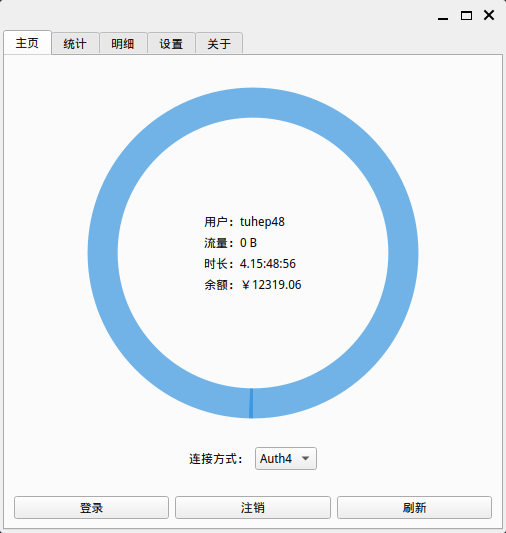
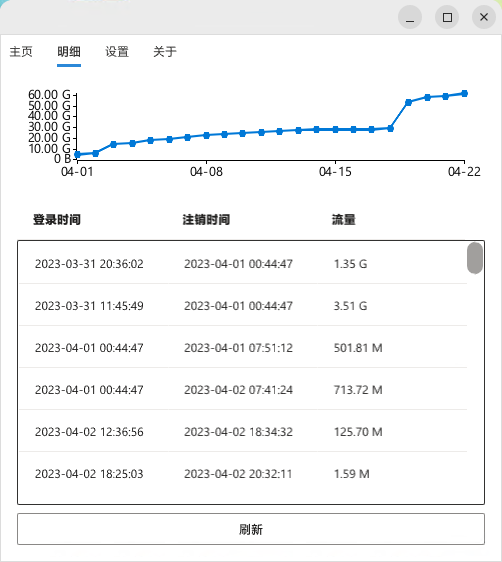
Update README.

diff --git a/README.md b/README.md
@@ -4,13 +4,13 @@
 [![Azure DevOps builds](https://strawberry-vs.visualstudio.com/tunet-rust/_apis/build/status/Berrysoft.tunet-rust?branch=master)](https://strawberry-vs.visualstudio.com/tunet-rust/_build)
 
 ## GUI
-支持 Qt5/6，以及 Qt 支持的桌面平台。前端使用 C++ 编写。
+基于 [Slint](https://slint-ui.com/) 开发。
 
-| Windows                        | Windows（暗*）                             | Linux                      | MacOS                          | MacOS（暗）                   |
-| ------------------------------ | ------------------------------------------ | -------------------------- | ------------------------------ | ----------------------------- |
-| ![Windows](assets/windows.png) | ![Windows](assets/windows.fusion.dark.png) | ![Linux](assets/linux.png) | ![macos](assets/mac.light.png) | ![macos](assets/mac.dark.png) |
-
-\* 需要使用 fusion 主题，可在命令行指定 `-style fusion`。
+| 平台    | 亮                             | 暗                                  |
+| ------- | ------------------------------ | ----------------------------------- |
+| Windows | ![Windows](assets/windows.png) | ![Windows](assets/windows.dark.png) |
+| Linux   | ![Linux](assets/linux.png)     | （暂无图片）                        |
+| macOS   | ![macOS](assets/mac.light.png) | ![macOS](assets/mac.dark.png)       |
 
 ## CUI（命令行图形界面）
 使用如下命令启动：
@@ -117,46 +117,9 @@ $ ./tunet deletecred
 | Linux   | [Netlink](https://wiki.linuxfoundation.org/networking/generic_netlink_howto) |
 | macOS   | System Configuration 与 Core WLAN                                            |
 
-## 平台支持
-至少支持如下目标编译命令行程序：
-
-* i686-unknown-linux-gnu
-* x86_64-unknown-linux-gnu
-* arm-unknown-linux-gnueabihf
-* aarch64-unknown-linux-gnu
-* riscv64gc-unknown-linux-gnu
-* mips-unknown-linux-gnu
-* mipsel-unknown-linux-gnu
-* mips64-unknown-linux-gnuabi64
-* mips64el-unknown-linux-gnuabi64
-* powerpc-unknown-linux-gnu
-* powerpc64le-unknown-linux-gnu
-* s390x-unknown-linux-gnu
-* x86_64-apple-darwin
-* aarch64-apple-darwin
-* i686-pc-windows-msvc
-* x86_64-pc-windows-msvc
-* aarch64-pc-windows-msvc
-
-但是大部分目标并不提供预编译程序，如有需要请自行编译。
-
 ## 编译说明
-如果只需要命令行程序，使用 `cargo` 直接编译：
+使用 `cargo` 直接编译：
 ``` bash
 $ cargo build --release
 ```
 即可在 `target/release` 下找到编译好的程序。
-
-如果需要图形界面程序，应首先安装 Qt5/6 与 cmake，之后运行：
-``` bash
-$ mkdir build
-$ cd build
-# Qt6
-$ cmake ..
-# Qt5 需要额外参数
-$ cmake .. -DUSE_QT5=on
-# 编译
-$ cmake --build .
-```
-
-有关交叉编译的说明，参考 `cargo` 文档以及 [Corrosion](https://github.com/AndrewGaspar/corrosion)。
